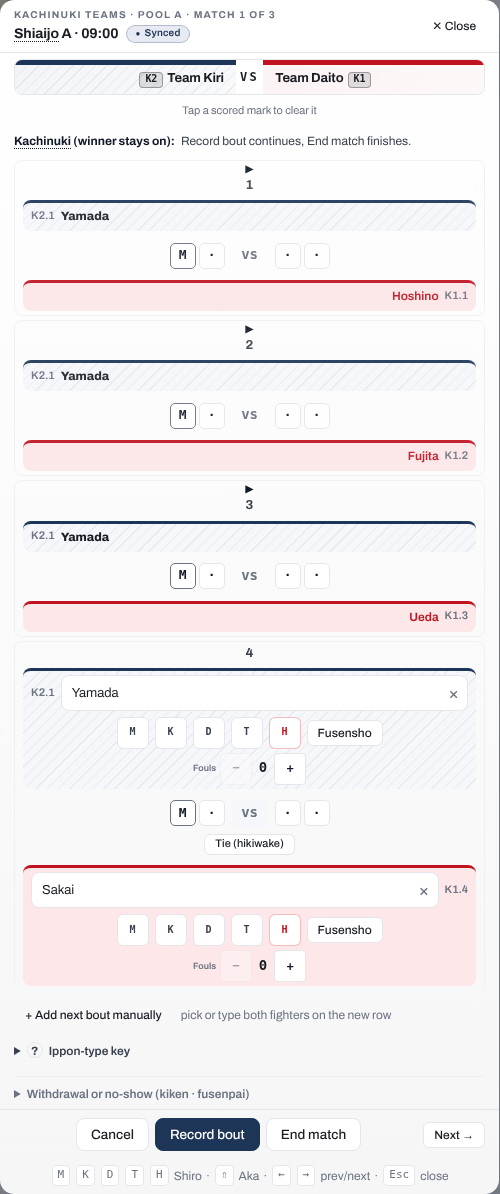
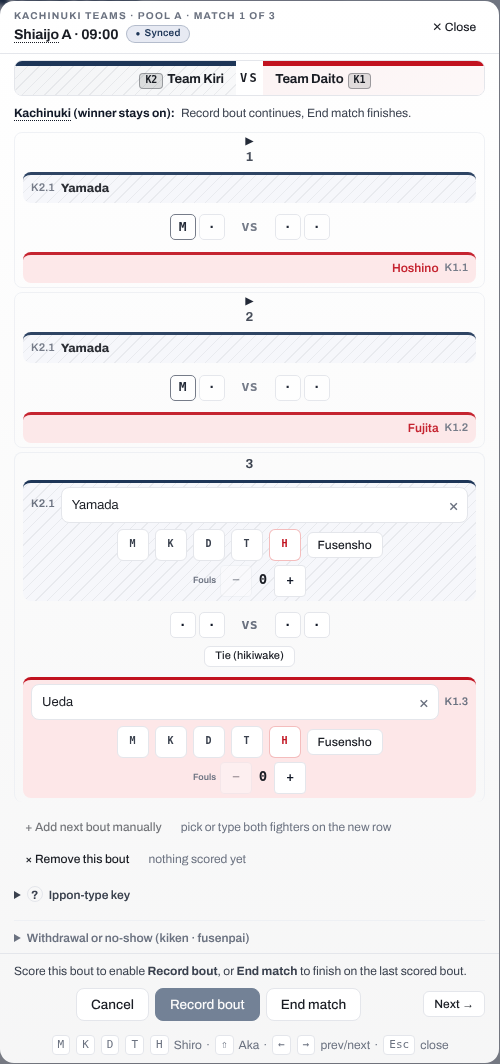
fix(bc-shfu): close the second code review and find the flake
1. and 2. SINCE= skipped captures a shared module reaches. Six helper
   modules were claimed by one family although other pages import them:
   lineup_ and squad_member_label (score editors, scoreboards, stream
   overlay), duration and competition_shape (setup, settings, schedule,
   export, data.jsx), competition_fields and qualifier_preview (setup and
   settings). None is claimed now, so a change to any runs every family
   (checked: 13 of 13 each). The claimed modules left were checked for
   importers outside their family: admin_scoring_ and display reach only
   pages no other family captures.
3. kachinuki-scoring-buttons took a different picture in a family run and
   a NAME= run, because kachinuki-correct-bout ran first and carried the
   encounter past the state it wants. It now runs first and checks it has
   exactly two recorded bouts, so both modes photograph bout 3 unscored with
   the "× Remove this bout" undo, which both of its captions describe and
   the committed image did not show. Recaptured and read. A NAME= run now
   matches the family run in size; only the dialog's rounded corners differ,
   where the page behind the backdrop shows through the rectangular crop.
4. A seed that threw ended the whole run, leaving later families' old
   images in out/ with no FAILED line. Now it fails that family's captures
   (removing their stale output, through the same helper a failed capture
[…]

diff --git a/scripts/screenshots/README.md b/scripts/screenshots/README.md
@@ -198,10 +198,12 @@ What is left is small but not zero: re-run the suite and one or two of the
 thirty come back a grey level or two from the committed file, on a handful of
 pixels. That is why the comparison keeps a tolerance instead of comparing bytes.
 
-One caveat, because it is the operator who would hit it. Over seven runs here,
-six reported all thirty unchanged and one reported a single capture changed,
-and that one has not reproduced since. So the changed list is not guaranteed
-empty on an untouched tree. If a capture you did not expect appears there,
-note its line (the box says where it moved) and keep its image from `out/`
-before re-running, since the re-run overwrites it. Then re-run: two runs
-disagreeing is itself the finding.
+One caveat, because it is the operator who would hit it. A capture used to
+come back changed on roughly one run in twenty with nothing touched. The box
+found it: the admin topbar's logo, photographed while its fallback image was
+still loading. The runner now waits for every image to load and decode before
+a shot, but the changed list is still not guaranteed empty on an untouched
+tree. If a capture you did not expect appears there, note its line (the box
+says where it moved) and keep its image from `out/` before re-running, since
+the re-run overwrites it. Then re-run: two runs disagreeing is itself the
+finding.
